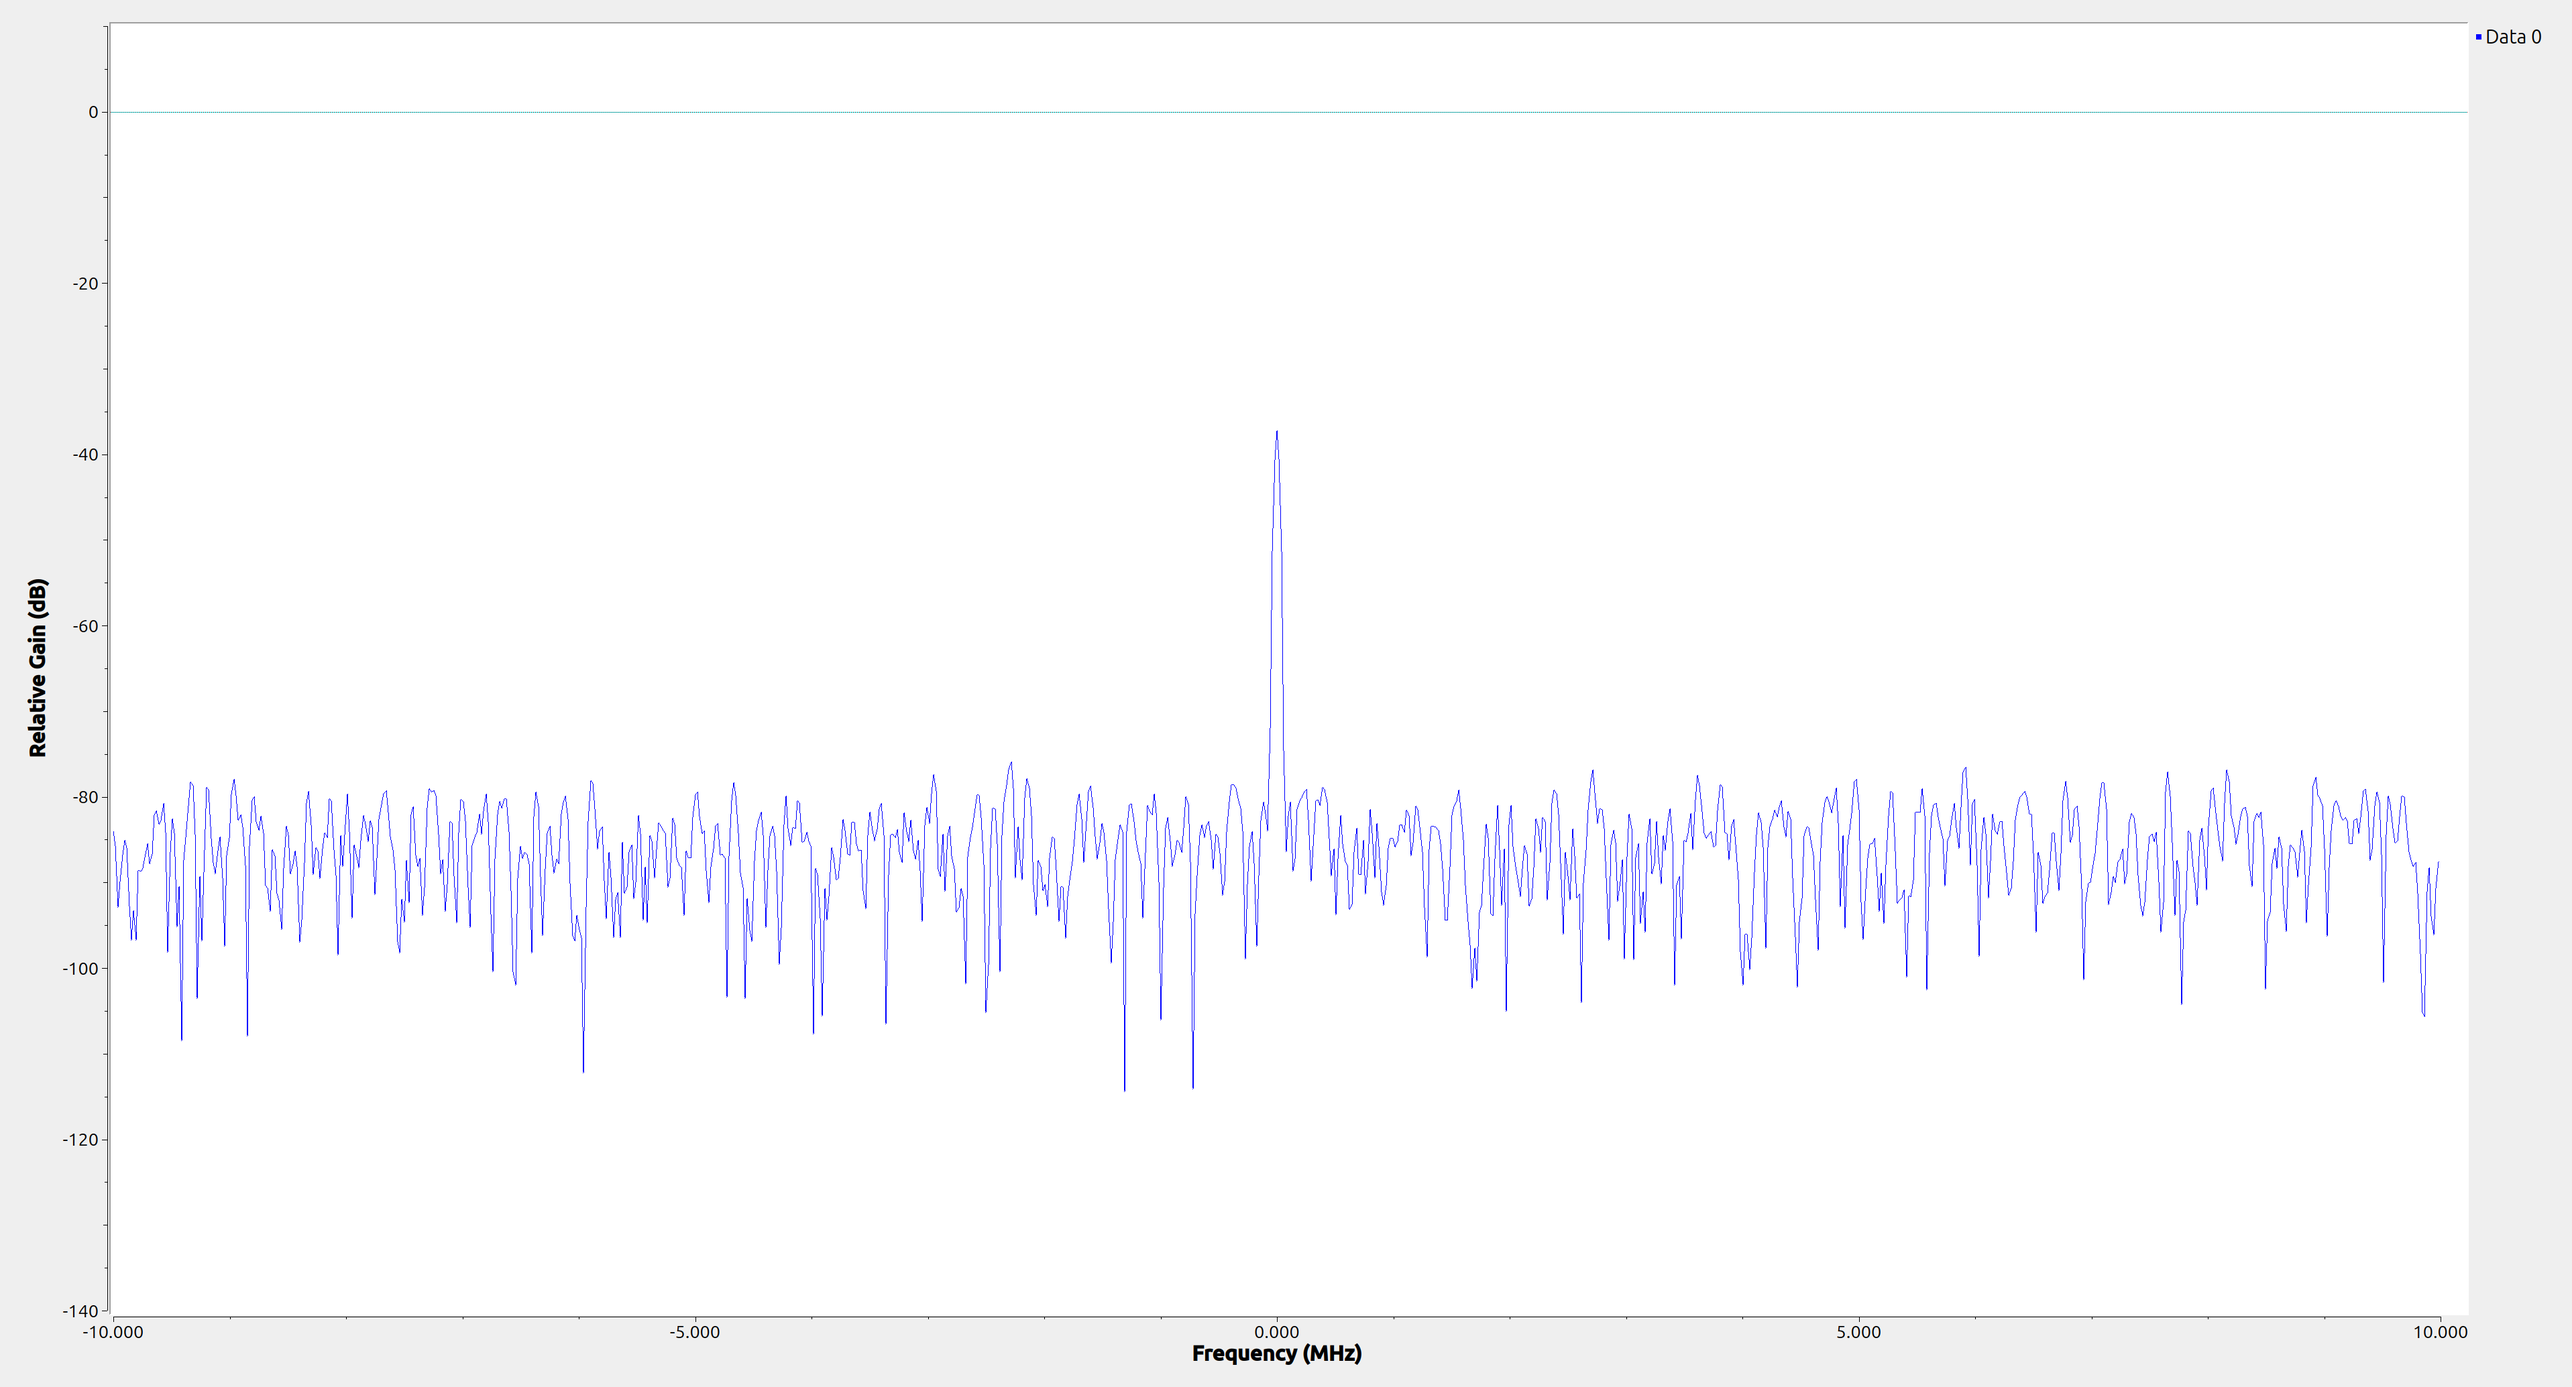
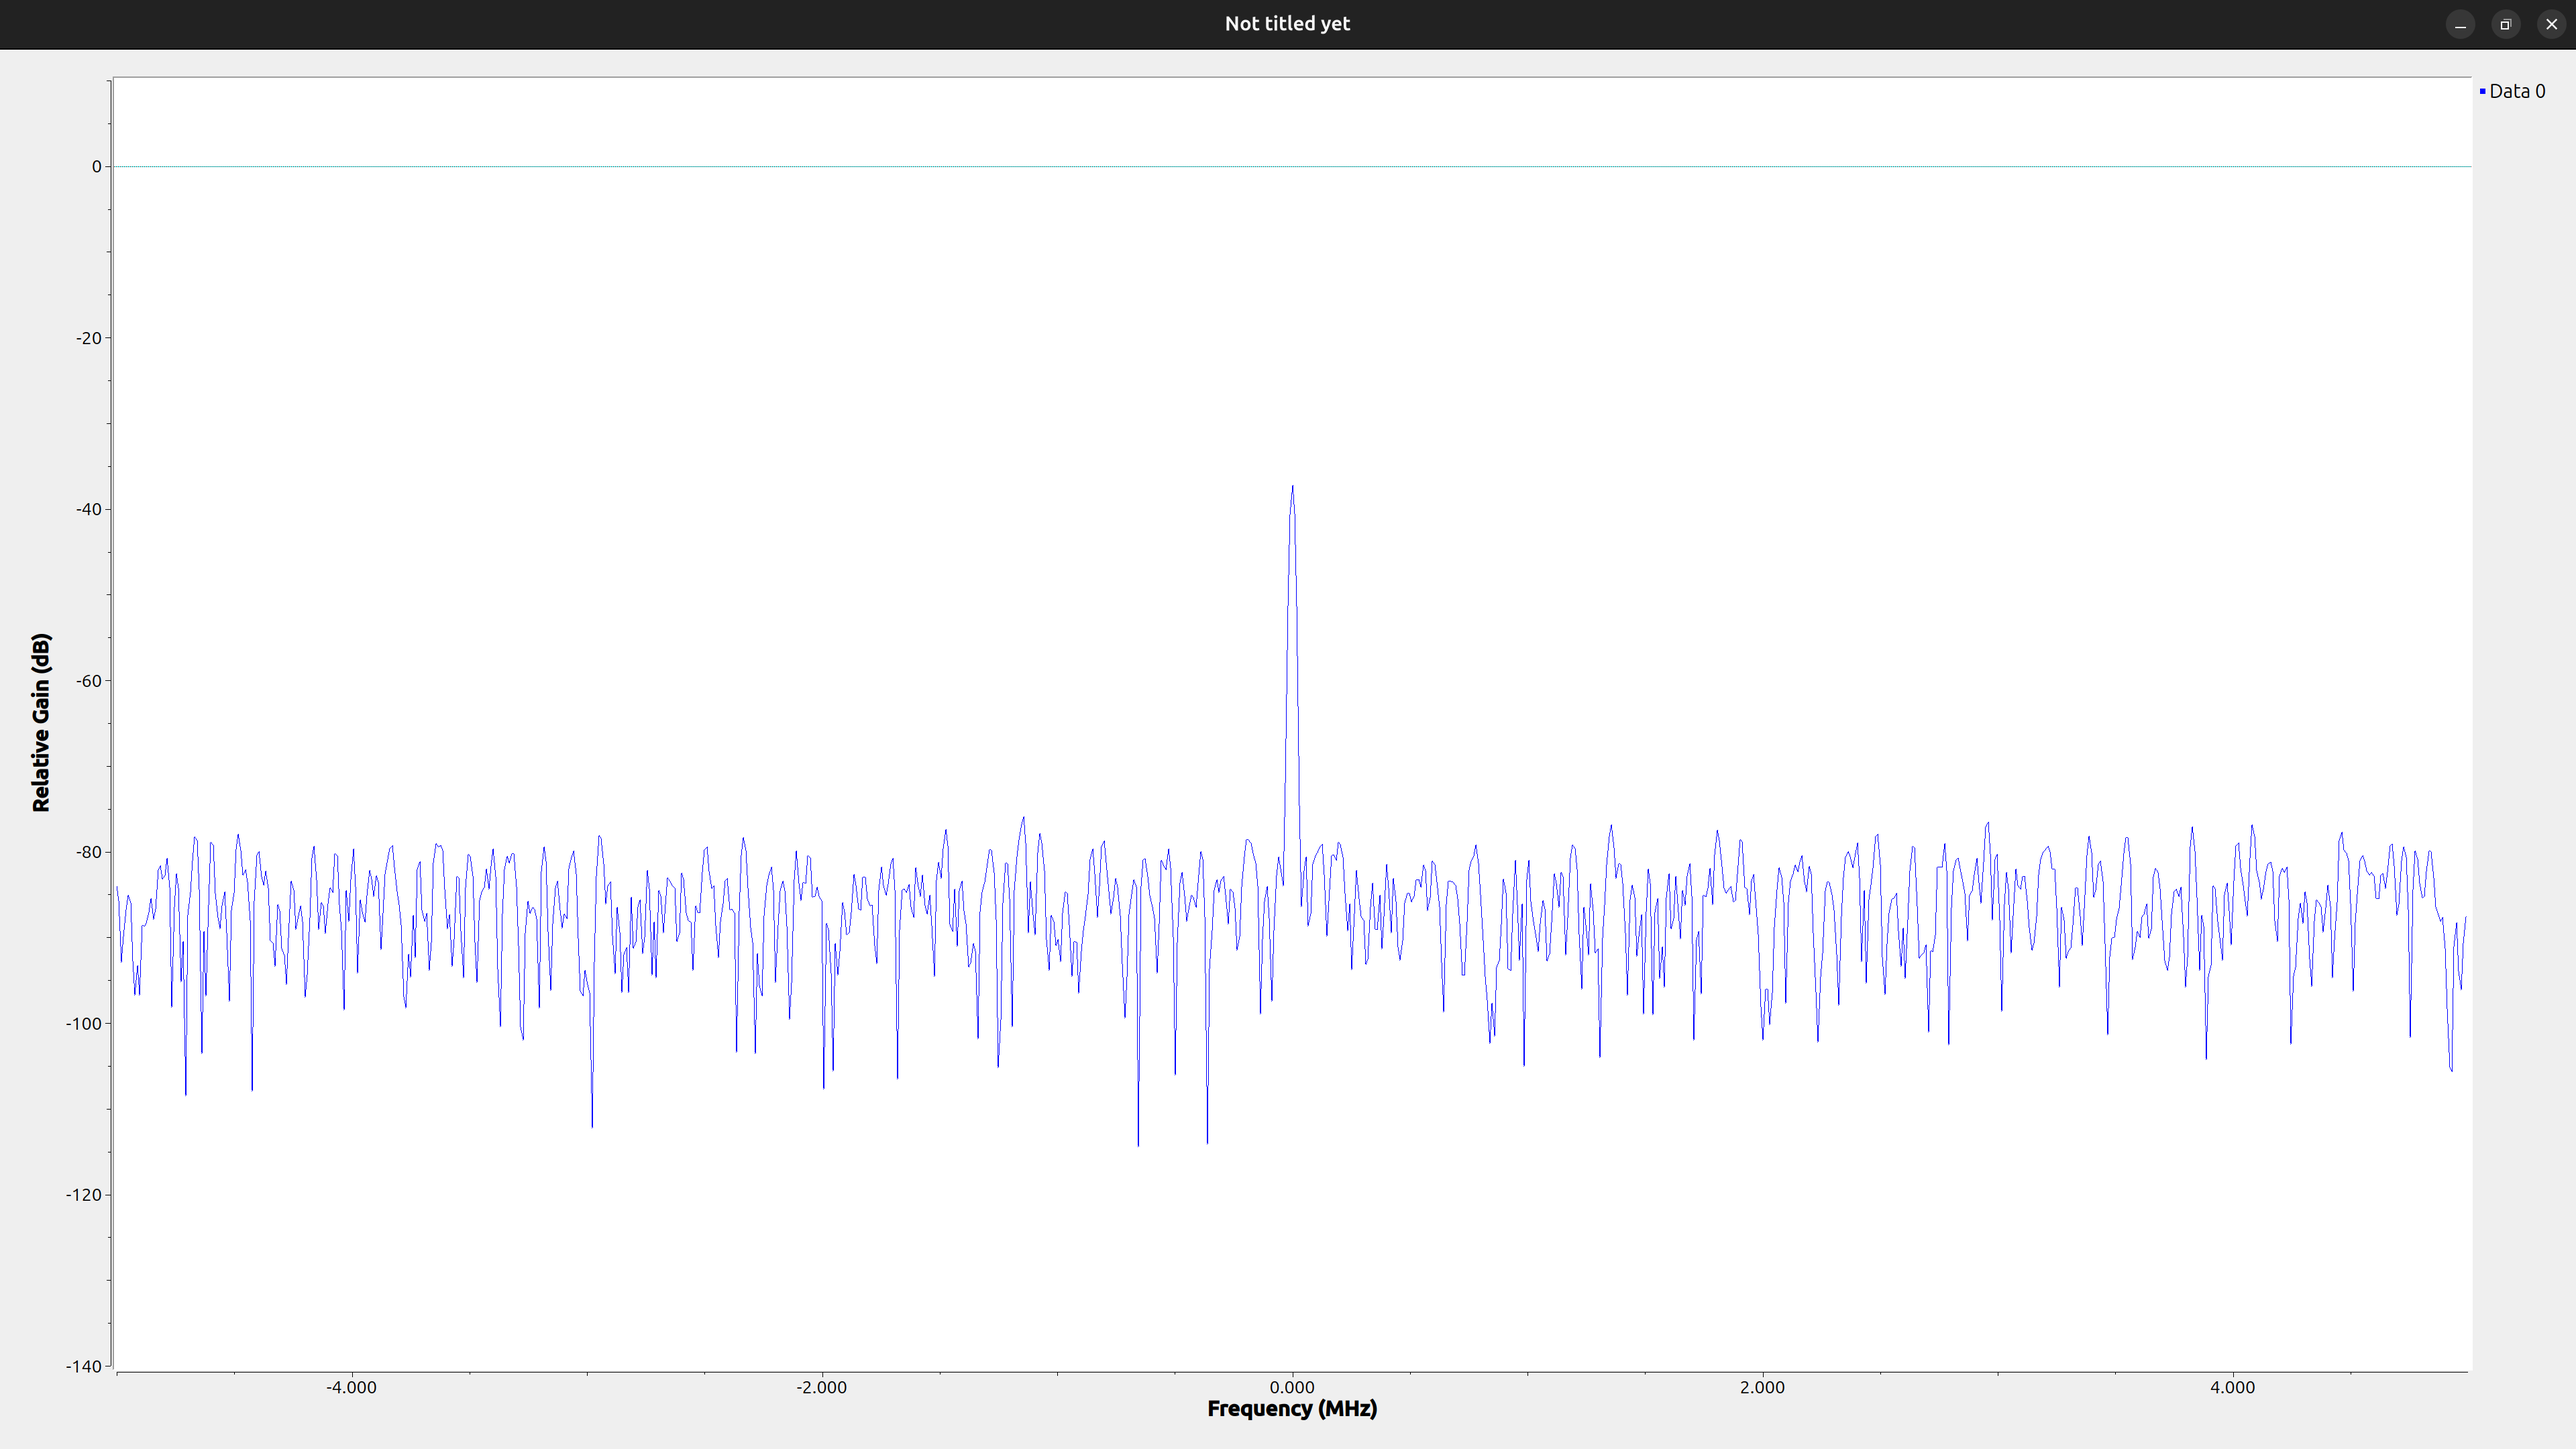
update README

diff --git a/main.py b/main.py
@@ -60,7 +60,7 @@ class main(gr.top_block, Qt.QWidget):
         ##################################################
         # Variables
         ##################################################
-        self.samp_rate = samp_rate = 20e6
+        self.samp_rate = samp_rate = 10e6
 
         ##################################################
         # Blocks

diff --git a/README.md b/README.md
@@ -18,7 +18,7 @@ Connect your HackRF and run:
 hackrf_info
 ```
 2. **Capture IQ Samples:**
-Use the following command to capture 1,000,000 samples (at the default sample rate of 20 MS/s) and save them to a file:
+Use the following command to capture 1,000,000 samples (at the [default sample rate of 10 MS/s](https://github.com/greatscottgadgets/hackrf/blob/e5cfe1ac2b4d0621705ba3006d0f8abd447f50a3/host/hackrf-tools/src/hackrf_transfer.c#L107)) and save them to a file:
 ```bash
 hackrf_transfer -r sample.iq -n 1000000
 ```
@@ -26,8 +26,8 @@ Note:
 - The `-r sample.iq` option directs HackRF to write the received data into the file `sample.iq`.
 - The `-n 1000000` option tells it to capture one million samples.
 - The resulting file contains interleaved data: the first byte is I₁, the second is Q₁, third is I₂, fourth is Q₂, and so on. When you open sample.iq in a terminal text editor (like nano, vim, or less), you’re seeing nonsense characters because the file contains raw binary data, not readable text. Each I/Q value is a signed 8-bit integer.
-- By default, each I+jQ value is sampled at 20 MS/s. If you ever need to change it, you can pass `-s <rate>` to `hackrf_transfer` (e.g. `-s 10e6` for 10 MS/s).
-- By default, when you don’t give it any -f options,hackrf_transfer sets the local oscillator to (1GHz)[https://github.com/greatscottgadgets/hackrf/blob/e5cfe1ac2b4d0621705ba3006d0f8abd447f50a3/host/hackrf-tools/src/hackrf_transfer.c#L109].
+- By default, each I+jQ value is sampled at 10 MS/s. If you ever need to change it, you can pass `-s <rate>` to `hackrf_transfer` (e.g. `-s 20e6` for 20 MS/s, the [maximum sample rate](https://github.com/greatscottgadgets/hackrf/blob/e5cfe1ac2b4d0621705ba3006d0f8abd447f50a3/host/hackrf-tools/src/hackrf_transfer.c#L106)).
+- By default, when you don’t give it any -f options,hackrf_transfer sets the local oscillator to [1GHz](https://github.com/greatscottgadgets/hackrf/blob/e5cfe1ac2b4d0621705ba3006d0f8abd447f50a3/host/hackrf-tools/src/hackrf_transfer.c#L109).
 
 ## Processing the IQ Data in GNU Radio Companion
 
@@ -43,17 +43,17 @@ This section explains how to build a flowgraph in GNU Radio Companion (GRC) that
    - Double-click to open its properties and set:
      - **Scale**: `127`  
        (this normalizes the raw –128…127 integers into approximately –1.0…+1.0 floats)  
-    - The output of the **IChar to Complex** (or **Throttle**) block is now a stream of `std::complex<float>` at 20 MS/s, ready for visualization in the QT GUI Frequency Sink.3.
+    - The output of the **IChar to Complex** (or **Throttle**) block is now a stream of `std::complex<float>` at 10 MS/s, ready for visualization in the QT GUI Frequency Sink.3.
    - Wire the **File Source** output to the **IChar to Complex** input.  
-4. Set the variable `samp_rate` to `20e6` (20 MHz)  
+4. Set the variable `samp_rate` to `10e6` (10 MHz)  
   - Defines the SDR sampling rate in Hz  
-  - Sets the digital baseband bandwidth (± fₛ/2 = ± 10 MHz)  
+  - Sets the digital baseband bandwidth (± fₛ/2 = ± 5 MHz)  
 5. **(Optional) Throttle**  
-   - If you plan to play back a file without real-time hardware, insert a **Throttle** block after **IChar to Complex** and set **Sample Rate** to `20e6`.  
+   - If you plan to play back a file without real-time hardware, insert a **Throttle** block after **IChar to Complex** and set **Sample Rate** to `10e6`.
 6. Visualize the Signal
   - QT GUI Frequency Sink:
     - Connect the output of the Float to Complex block (or the Throttle block if used) to this sink.
-    - Set the bandwidth to 20MHz. We purposefully set `Bandwidth = samp_rate` because the sink uses that value to map digital bins to real-world frequencies and to scale the power axis correctly. Without it, you’d just get a generic plot with arbitrary units.
+    - Set the bandwidth to 10MHz. We purposefully set `Bandwidth = samp_rate` because the sink uses that value to map digital bins to real-world frequencies and to scale the power axis correctly. Without it, you’d just get a generic plot with arbitrary units.
     - Set the Center Frequency to 0 (since the data is now baseband).
     - Adjust autoscale or y-axis limits as needed.
 7. Run the Flowgraph
